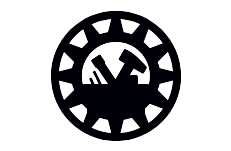
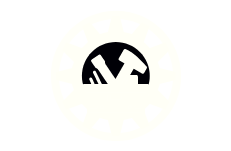
new

diff --git a/css/style.css b/css/style.css
@@ -88,7 +88,7 @@ ul li.active a{
   width: auto;
 }
 .projecthead h1{
-  color: #000;
+  color: #FFFFFF;
   font-size: 60px;
   font-family: fantasy;
 }
@@ -191,20 +191,20 @@ button:hover{
 
   ul li a{
       text-decoration:none;
-      color: #000;
+      color: #FFFFFF;
       padding: 10px 35px;
       border: 1px solid transparent;
       transition: 0.6s ease;
   }
 
   ul li a:hover{
-      background-color: #000;
-      color: #ccc;
+      background-color: #FFFFFF;
+      color: #000000;
   }
 
   ul li.active a{
-                 background-color: #000;
-                 color: #ccc;
+                 background-color: #FFFFFF;
+                 color: #000000;
   }
   .title{
        position: absolute;
@@ -212,9 +212,10 @@ button:hover{
        left: 40%;
        transform: translate(-50%,-50%);
        width: auto;
+       color: #FFFFFF;
   }
   .title h1{
-       color: #000;
+       color: #FFFFFF;
        font-size: 190px;
        font-family: westminster;
   }
@@ -240,7 +241,7 @@ button:hover{
     width: auto;
   }
   .projecthead h1{
-    color: #000;
+    color: #FFFFFF;
     font-size: 60px;
     font-family: fantasy;
   }
@@ -319,14 +320,42 @@ button:hover{
   #particles-js{
     height: 90vh;
   }
-  
+
  .Icon{
    position: absolute;
    left: 3px;
    top: 5px;
+   width: 50px;
  }
- #icon{
-   width: 80px;
-   cursor: pointer;
+ .section{
+   position: relative;
  }
+ .section::before{
+   content: ' ';
+   position: absolute;
+   top: 0;
+   left: 0;
+   width: 100%;
+   height: 100%;
+   background: linear-gradient(#foo, #fof);
+   clip-path: circle(30% at right 70%);
+ }
+ .section::after{
+   content: ' ';
+   position: absolute;
+   top: 0;
+   left: 0;
+   width: 100%;
+   height: 100%;
+ }
+ .teamc{
+   position: relative;
+   z-index: 1;
+   display: flex;
+   justify-content: center;
+   align-items: center;
+   flex-wrap: wrap;
+   margin: 40px 0;
+ }
+ 
 }

diff --git a/index.html b/index.html
@@ -31,14 +31,12 @@
    <div class = "Icon">
      <img src="rogue.png" id = "icon">
    </div>
-   <audio id="mysong">
-     <source src="reboot.mp3" type="audio/mp3">
-   </audio>
+   <hr>
    <section>
      <div class="teamc">
        <div class="teamcard">
          <div class="teamcontent">
-           <div class="imgbx"><img src ="#"></div>
+           <div class="imgbx"><img src ="mpic.jpeg"></div>
            <div class="tcontentbx">
              <h3>Shaurya Gupta<br><span>Founder</span></h3>
            </div>
@@ -67,7 +65,7 @@
 
 <style>
 body {
-  background-image: url('2.png');
+  background-image: url('blegh.jpg');
   background-repeat: no-repeat;
   background-attachment: fixed;
   background-size: cover;

diff --git a/app.js b/app.js
@@ -19,17 +19,17 @@ particlesJS('particles-js',
         "value": 80,
         "density": {
           "enable": true,
-          "value_area": 800
+          "value_area": 500
         }
       },
       "color": {
-        "value": "#000000"
+        "value": "#FFFFFF"
       },
       "shape": {
         "type": "circle",
         "stroke": {
           "width": 0,
-          "color": "#000000"
+          "color": "#FFFFFF"
         },
         "polygon": {
           "nb_sides": 5
@@ -63,7 +63,7 @@ particlesJS('particles-js',
       "line_linked": {
         "enable": true,
         "distance": 150,
-        "color": "#000000",
+        "color": "#FFFFFF",
         "opacity": 0.4,
         "width": 1
       },

diff --git a/particles.js b/particles.js
@@ -27,13 +27,13 @@ var pJS = function(tag_id, params){
         }
       },
       color: {
-        value: '#000000'
+        value: '#FFFFFF'
       },
       shape: {
         type: 'circle',
         stroke: {
           width: 0,
-          color: '#000000'
+          color: '#FFFFFF'
         },
         polygon: {
           nb_sides: 5
@@ -67,7 +67,7 @@ var pJS = function(tag_id, params){
       line_linked: {
         enable: true,
         distance: 100,
-        color: '#000000',
+        color: '#FFFFFF',
         opacity: 1,
         width: 1
       },

diff --git a/projects.html b/projects.html
@@ -27,14 +27,11 @@
     </a>
   </div>
 </div>
-   <div class="home">
-      <a href="index.html" class="home"><i class="fa fa-home"></i></a>
-    </div>
     </header>
    <a href="#" class="gotop"><i class="fa fa-chevron-up"></i></a>
    <style>
    body {
-     background-image: url('2.png');
+     background-image: url('blegh.jpg');
      background-repeat: no-repeat;
      background-attachment: fixed;
      background-size: cover;
